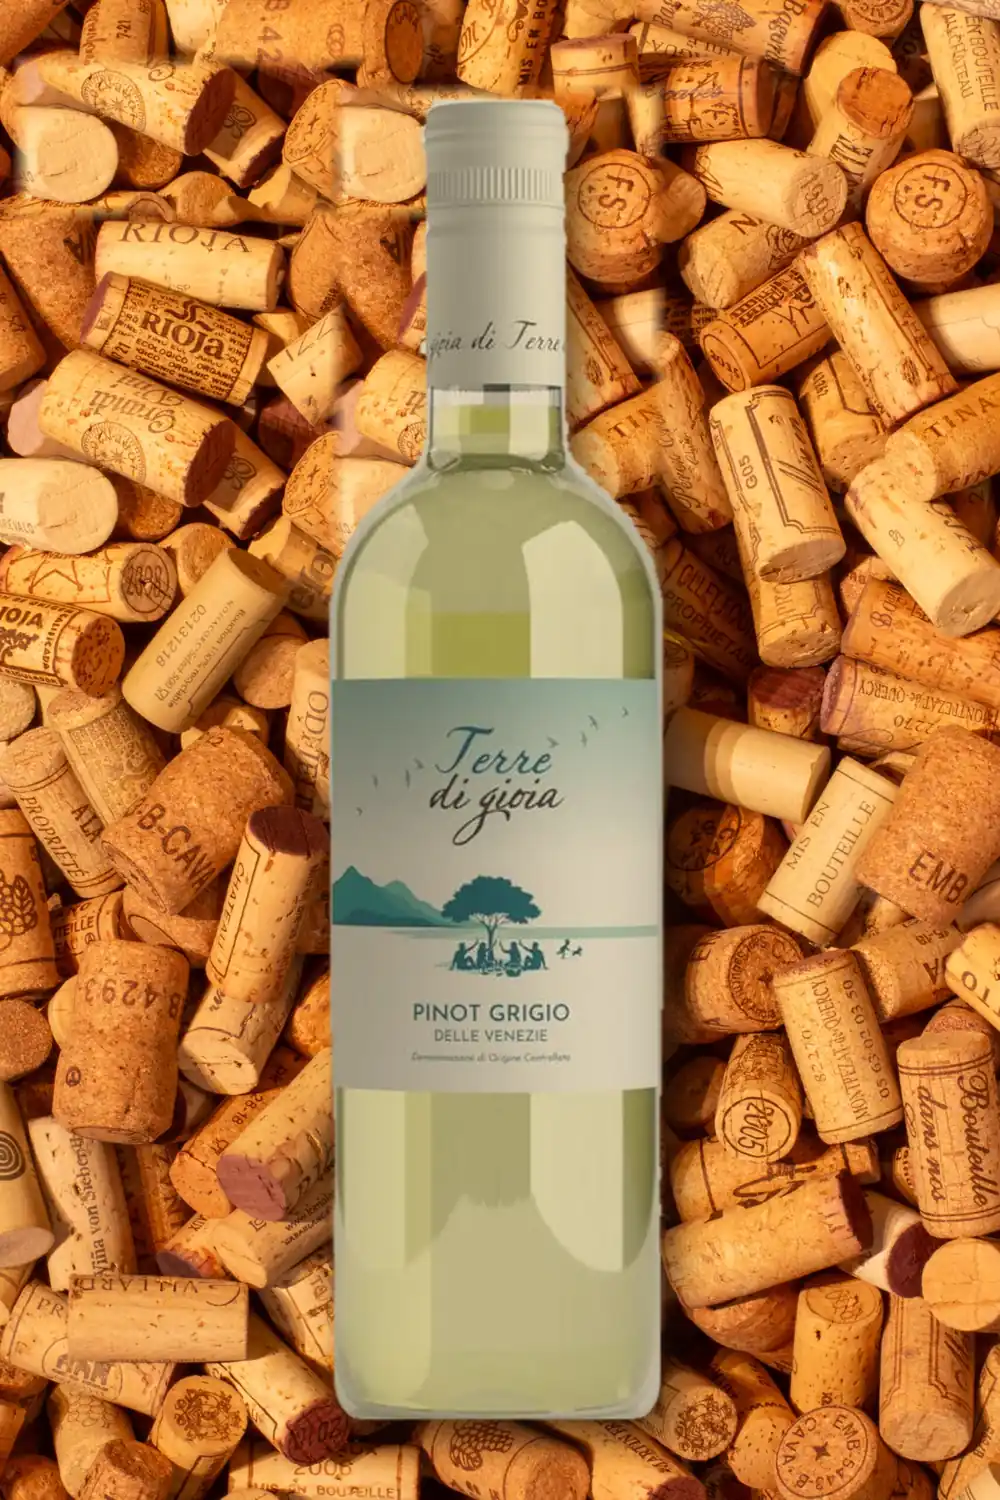
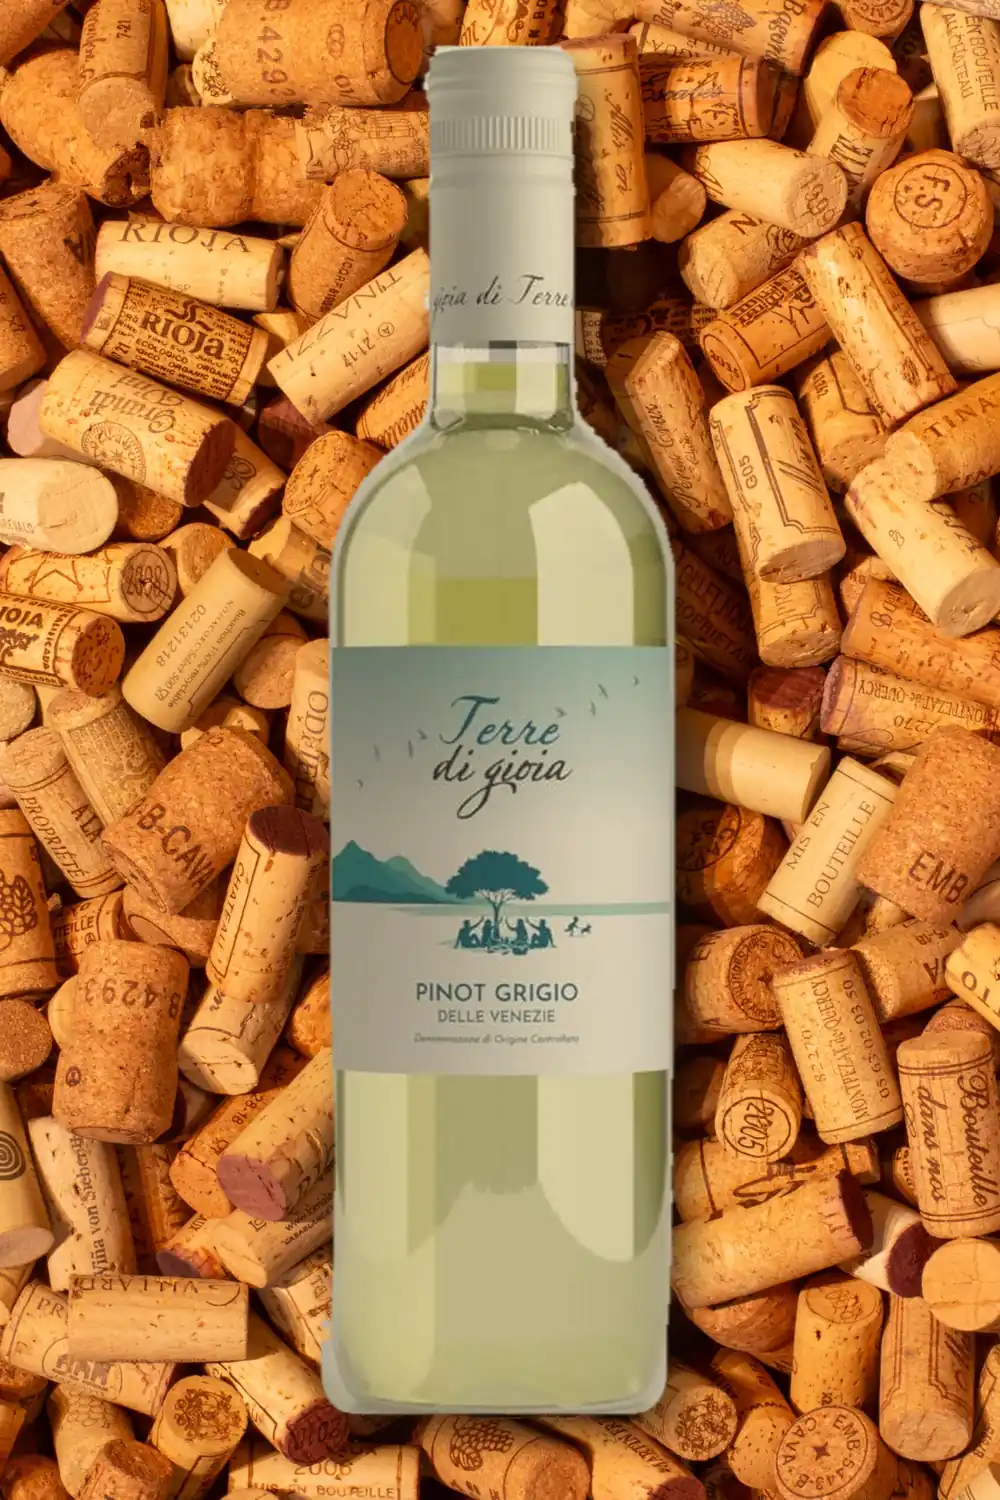
De Zonnebloem: fotocarrousel en betere foto Terre di Gioia (preview)
Claude-Session: https://claude.ai/code/session_01Pu1msh7eVZDue5GQn3Wr3w

Changed region(s): [[0.0, 0.0307, 0.713, 0.9507]]

diff --git a/bedrijven/de-zonnebloem/site/src/js/carrousel.js b/bedrijven/de-zonnebloem/site/src/js/carrousel.js
@@ -1,0 +1,44 @@
+// Fotocarrousel "De Zonnebloem in beeld": bladeren met knoppen of vegen, loopt vanzelf
+// (niet bij "minder beweging"), pauzeert bij muis, focus of als hij niet in beeld is.
+(function () {
+  "use strict";
+  var c = document.querySelector("[data-carrousel]");
+  if (!c) return;
+  var spoor = c.querySelector(".carrousel__spoor");
+  var dias = [].slice.call(c.querySelectorAll(".carrousel__dia"));
+  var rustig = matchMedia("(prefers-reduced-motion: reduce)").matches;
+  if (dias.length < 2) { c.classList.add("carrousel--enkel"); return; }
+
+  function rand() { return parseFloat(getComputedStyle(spoor).paddingLeft) || 0; }
+  function huidige() {
+    var links = spoor.scrollLeft + rand(), beste = 0, afstand = Infinity;
+    dias.forEach(function (d, i) {
+      var a = Math.abs(d.offsetLeft - links);
+      if (a < afstand) { afstand = a; beste = i; }
+    });
+    // helemaal rechts: de laatste telt als huidige, zodat "volgende" terug naar het begin gaat
+    if (spoor.scrollLeft + spoor.clientWidth >= spoor.scrollWidth - 4) beste = dias.length - 1;
+    return beste;
+  }
+  function naar(i) {
+    var d = dias[(i + dias.length) % dias.length];
+    spoor.scrollTo({ left: d.offsetLeft - rand(), behavior: rustig ? "auto" : "smooth" });
+  }
+  c.querySelector("[data-vorige]").addEventListener("click", function () { naar(huidige() - 1); });
+  c.querySelector("[data-volgende]").addEventListener("click", function () { naar(huidige() + 1); });
+  spoor.addEventListener("keydown", function (e) {
+    if (e.key === "ArrowRight") { e.preventDefault(); naar(huidige() + 1); }
+    if (e.key === "ArrowLeft") { e.preventDefault(); naar(huidige() - 1); }
+  });
+
+  if (rustig) return;
+  var timer = null, zichtbaar = false, bezig = false;
+  function start() { stop(); if (zichtbaar && !bezig && !document.hidden) timer = setInterval(function () { naar(huidige() + 1); }, 5000); }
+  function stop() { clearInterval(timer); timer = null; }
+  ["mouseenter", "focusin", "touchstart"].forEach(function (t) { c.addEventListener(t, function () { bezig = true; stop(); }, { passive: true }); });
+  ["mouseleave", "focusout"].forEach(function (t) { c.addEventListener(t, function () { bezig = false; start(); }); });
+  document.addEventListener("visibilitychange", start);
+  if ("IntersectionObserver" in window) {
+    new IntersectionObserver(function (e) { zichtbaar = e[0].isIntersecting; start(); }, { threshold: 0.4 }).observe(c);
+  }
+})();

diff --git a/bedrijven/de-zonnebloem/site/src/index.html b/bedrijven/de-zonnebloem/site/src/index.html
@@ -28,7 +28,7 @@
   <link rel="icon" href="/img/favicon.svg" type="image/svg+xml">
   <link rel="preload" href="/fonts/antonio-latin-wght-normal.woff2" as="font" type="font/woff2" crossorigin>
   <link rel="preload" href="/fonts/cantarell-latin-400-normal.woff2" as="font" type="font/woff2" crossorigin>
-  <link rel="stylesheet" href="/css/style.css?v=36">
+  <link rel="stylesheet" href="/css/style.css?v=38">
 
   <script type="application/ld+json">
   {
@@ -109,6 +109,21 @@
           <button type="button" class="verhaal__pauze" id="verhaal-pauze" aria-pressed="false" aria-label="Animatie pauzeren"><span class="pauze-icoon" aria-hidden="true"></span></button>
         </figcaption>
       </figure>
+    </section>
+
+    <!-- In beeld: foto's van De Zonnebloem (weekend en kamp) -->
+    <section id="inbeeld" class="sectie inbeeld" aria-labelledby="inbeeld-titel">
+      <h2 id="inbeeld-titel" class="sectietitel">De Zonnebloem in beeld</h2>
+      <div class="carrousel" data-carrousel>
+        <div class="carrousel__spoor" tabindex="0" role="region" aria-label="Foto's van De Zonnebloem. Gebruik de pijltjes om te bladeren.">
+          <figure class="carrousel__dia"><img src="/img/beeld/lachen-720.webp" srcset="/img/beeld/lachen-480.webp 717w, /img/beeld/lachen-720.webp 1076w" sizes="(max-width: 600px) 88vw, 700px" width="1076" height="720" loading="lazy" alt="Een deelneemster lacht uitbundig tijdens een activiteit van vzw Raakpunt"></figure>
+          <figure class="carrousel__dia"><img src="/img/beeld/groep-720.webp" srcset="/img/beeld/groep-480.webp 719w, /img/beeld/groep-720.webp 1079w" sizes="(max-width: 600px) 88vw, 700px" width="1079" height="720" loading="lazy" alt="Groepsfoto van deelnemers en begeleiders van vzw Raakpunt die vrolijk zwaaien, met en zonder rolstoel"></figure>
+        </div>
+        <div class="carrousel__bediening">
+          <button type="button" class="carrousel__knop" data-vorige aria-label="Vorige foto"><span aria-hidden="true">←</span></button>
+          <button type="button" class="carrousel__knop" data-volgende aria-label="Volgende foto"><span aria-hidden="true">→</span></button>
+        </div>
+      </div>
     </section>
 
     <!-- Wijnen -->
@@ -339,5 +354,6 @@
   </footer>
   <script src="/js/winkel.js?v=31" defer></script>
   <script src="/js/verhaal.js?v=32" defer></script>
+  <script src="/js/carrousel.js?v=2" defer></script>
 </body>
 </html>

diff --git a/bedrijven/de-zonnebloem/site/src/css/style.css b/bedrijven/de-zonnebloem/site/src/css/style.css
@@ -464,3 +464,18 @@ details a { color: var(--oranje); }
 @media (max-width: 600px) { .dank { flex-direction: column; gap: .8rem; padding: 1.2rem 1.6rem; } .dank__logo img { width: 170px; } }
 .wijn__meer summary { padding: .9rem 2.4rem .9rem 0; }
 .wijn__meer summary::after { width: 26px; height: 26px; font-size: 1.15rem; }
+/* De Zonnebloem in beeld: fotocarrousel onder het openingsbeeld. */
+.inbeeld { overflow: hidden; }
+.carrousel { position: relative; }
+.carrousel__spoor { display: flex; gap: 20px; overflow-x: auto; scroll-snap-type: x mandatory; scrollbar-width: none; padding: 4px max(16px, calc(50vw - 360px)) 18px; outline-offset: -4px; }
+.carrousel__spoor::-webkit-scrollbar { display: none; }
+.carrousel__dia { position: relative; flex: none; margin: 0; scroll-snap-align: center; border: 2px solid var(--blauw); background: var(--blauw-licht); }
+.carrousel__dia::after { content: ""; position: absolute; right: -2px; bottom: -2px; width: 16px; height: 16px; background: var(--oranje); }
+.carrousel__dia img { display: block; height: clamp(240px, 52vh, 470px); width: auto; max-width: 88vw; object-fit: cover; }
+.carrousel__bediening { display: flex; justify-content: center; gap: 12px; margin-top: 1rem; }
+.carrousel__knop { width: 48px; height: 48px; display: grid; place-items: center; border: 2px solid var(--blauw); background: var(--wit); color: var(--blauw); font: 700 1.4rem/1 var(--titel); cursor: pointer; transition: background .2s, color .2s, border-color .2s; }
+.carrousel__knop:hover, .carrousel__knop:focus-visible { background: var(--oranje); border-color: var(--oranje); color: var(--wit); }
+.carrousel--enkel .carrousel__bediening { display: none; }
+.carrousel__spoor { --rand: clamp(16px, 3vw, 32px); padding: 4px var(--rand) 18px; scroll-padding-inline: var(--rand); }
+.carrousel__dia { scroll-snap-align: start; }
+@media (max-width: 600px) { .carrousel__dia img { width: calc(100vw - 48px); max-width: none; height: auto; max-height: 70vh; } }

diff --git a/bedrijven/de-zonnebloem/site/FOTOS.md b/bedrijven/de-zonnebloem/site/FOTOS.md
@@ -8,7 +8,7 @@ De flesfoto's komen uit de webwinkel van 't Wijnveld (https://www.wijnveld.be/),
 - Zet daarna `"foto": "naam"` bij de wijn in `src/wijnen.json`.
 - Nog geen juiste foto? Zet `"foto": null`; de site toont dan `fles-volgt` ("Foto volgt"). Nu voor geen enkele wijn meer nodig.
 - `tourtes-blanc-prestige`: foto van 't Wijnveld, aangeleverd door Arne (op wijnveld.be staat bij deze wijn per vergissing de rode fles).
-- `terre-di-gioia`: studiofoto van de fles (aangeleverd door Arne), door ARTO uitgeknipt en op de kurkenachtergrond van de KHS-foto van 't Wijnveld gezet (oude fles en watermerk weggewerkt), zodat ze in dezelfde stijl is.
+- `terre-di-gioia`: studiofoto van de fles (aangeleverd door Arne), door ARTO uitgeknipt en op de kurkenachtergrond van de KHS-foto van 't Wijnveld gezet (oude fles en watermerk weggewerkt met inpainting), zodat ze in dezelfde stijl is.
 
 Omzetten met Python (Pillow):
 
@@ -24,3 +24,9 @@ for b, q in ((640, 58), (1000, 52)):
 ## Logo 't Wijnveld (`src/img/sponsor/wijnveld.svg`)
 
 Van https://www.wijnveld.be/ (logo.svg), verkleind met svgo.
+
+## De Zonnebloem in beeld (`src/img/beeld/`)
+
+Foto's voor de carrousel onder het openingsbeeld, van https://www.vzwraakpunt.be/ (In beeld). Per foto twee hoogtes: `<naam>-480.webp` en `<naam>-720.webp`. Nieuwe foto toevoegen: een `<figure class="carrousel__dia">` in `src/index.html` (sectie `#inbeeld`).
+
+Let op: dit is een site die alcohol verkoopt. Het Belgische convenant over alcoholreclame verbiedt minderjarigen in reclame voor alcohol. Laat vzw Raakpunt bevestigen dat de foto's hier mogen staan (toestemming van de personen in beeld) en dat ze akkoord gaan met dat risico.

diff --git a/bedrijven/de-zonnebloem/logboek.md b/bedrijven/de-zonnebloem/logboek.md
@@ -4,6 +4,8 @@ Nieuwste bovenaan. Eén regel per gebeurtenis: datum, wat er gebeurde, en of het
 
 | Datum | Wat | Gepubliceerd |
 |---|---|---|
+| 2026-11-02 | Fotocarrousel "De Zonnebloem in beeld" onder het openingsbeeld, voorlopig met 2 foto's van vzwraakpunt.be (lachende deelneemster, groepsfoto); 3 andere foto's van Arne nog als bestand nodig. Aandachtspunt gemeld: minderjarigen op een site die alcohol verkoopt (convenant alcoholreclame) en toestemming van de personen in beeld. | preview |
+| 2026-11-02 | Foto Terre di Gioia verbeterd: linksboven geen gekopieerde blokken meer (watermerk en oude fles weggewerkt met inpainting, fles iets groter zodat ze de oude volledig bedekt). | preview |
 | 2026-11-02 | Foto Château des Tourtes Blanc Prestige (2020, aangeleverd door Arne) op de site. Alle 15 wijnen hebben nu een flesfoto. | preview |
 | 2026-11-02 | Foto Terre di Gioia Pinot Grigio (studiofoto van Arne) uitgeknipt en op een kurkenachtergrond gezet in de stijl van de andere flesfoto's. Château des Tourtes Blanc Prestige: wacht op de foto als bestand. | preview |
 | 2026-11-02 | Verkoopprijzen per fles ingevuld uit de beginlijst 2026 van Arne (kolom VKP Zonnebloem), van € 7,45 tot € 17,95. Aankoopprijzen en marges niet op de site of in de repo. Prijsberekening lokaal getest. | preview |

diff --git a/bedrijven/de-zonnebloem/bedrijf.md b/bedrijven/de-zonnebloem/bedrijf.md
@@ -74,6 +74,7 @@ Noteer hier nooit wachtwoorden of tokens, alleen waar ze staan.
 
 - Eigen website: https://www.vzwraakpunt.be/ (motto: "zonder een hoek af is de cirkel nooit rond"). Weekend De Zonnebloem 2026: 27/2 tot 1/3 in Jeugdpark Hoogland, Lokeren. Sponsors o.a. VOG en Rotary Gent.
 - Geen kinderen in beeld naast wijn (Belgische alcoholreclameregels); in tekst mag vermeld worden dat de opbrengst naar het kamp voor kinderen en jongeren gaat.
+- 2026-11-02: Arne vroeg een fotocarrousel met foto's van het kamp (ook minderjarigen) onder het openingsbeeld. Gebouwd als apart blok, los van de wijnen; risico (convenant alcoholreclame) en toestemming van de personen in beeld aan Arne gemeld. Beslissing om live te zetten ligt bij Arne en vzw Raakpunt.
 
 - Onderaan: "Website gemaakt en geschonken door arto" met interactief ARTO-teken, link naar artowebdesign.com.
 - Verkoop alleen aan 18+ (vinkje in het bestelformulier).
